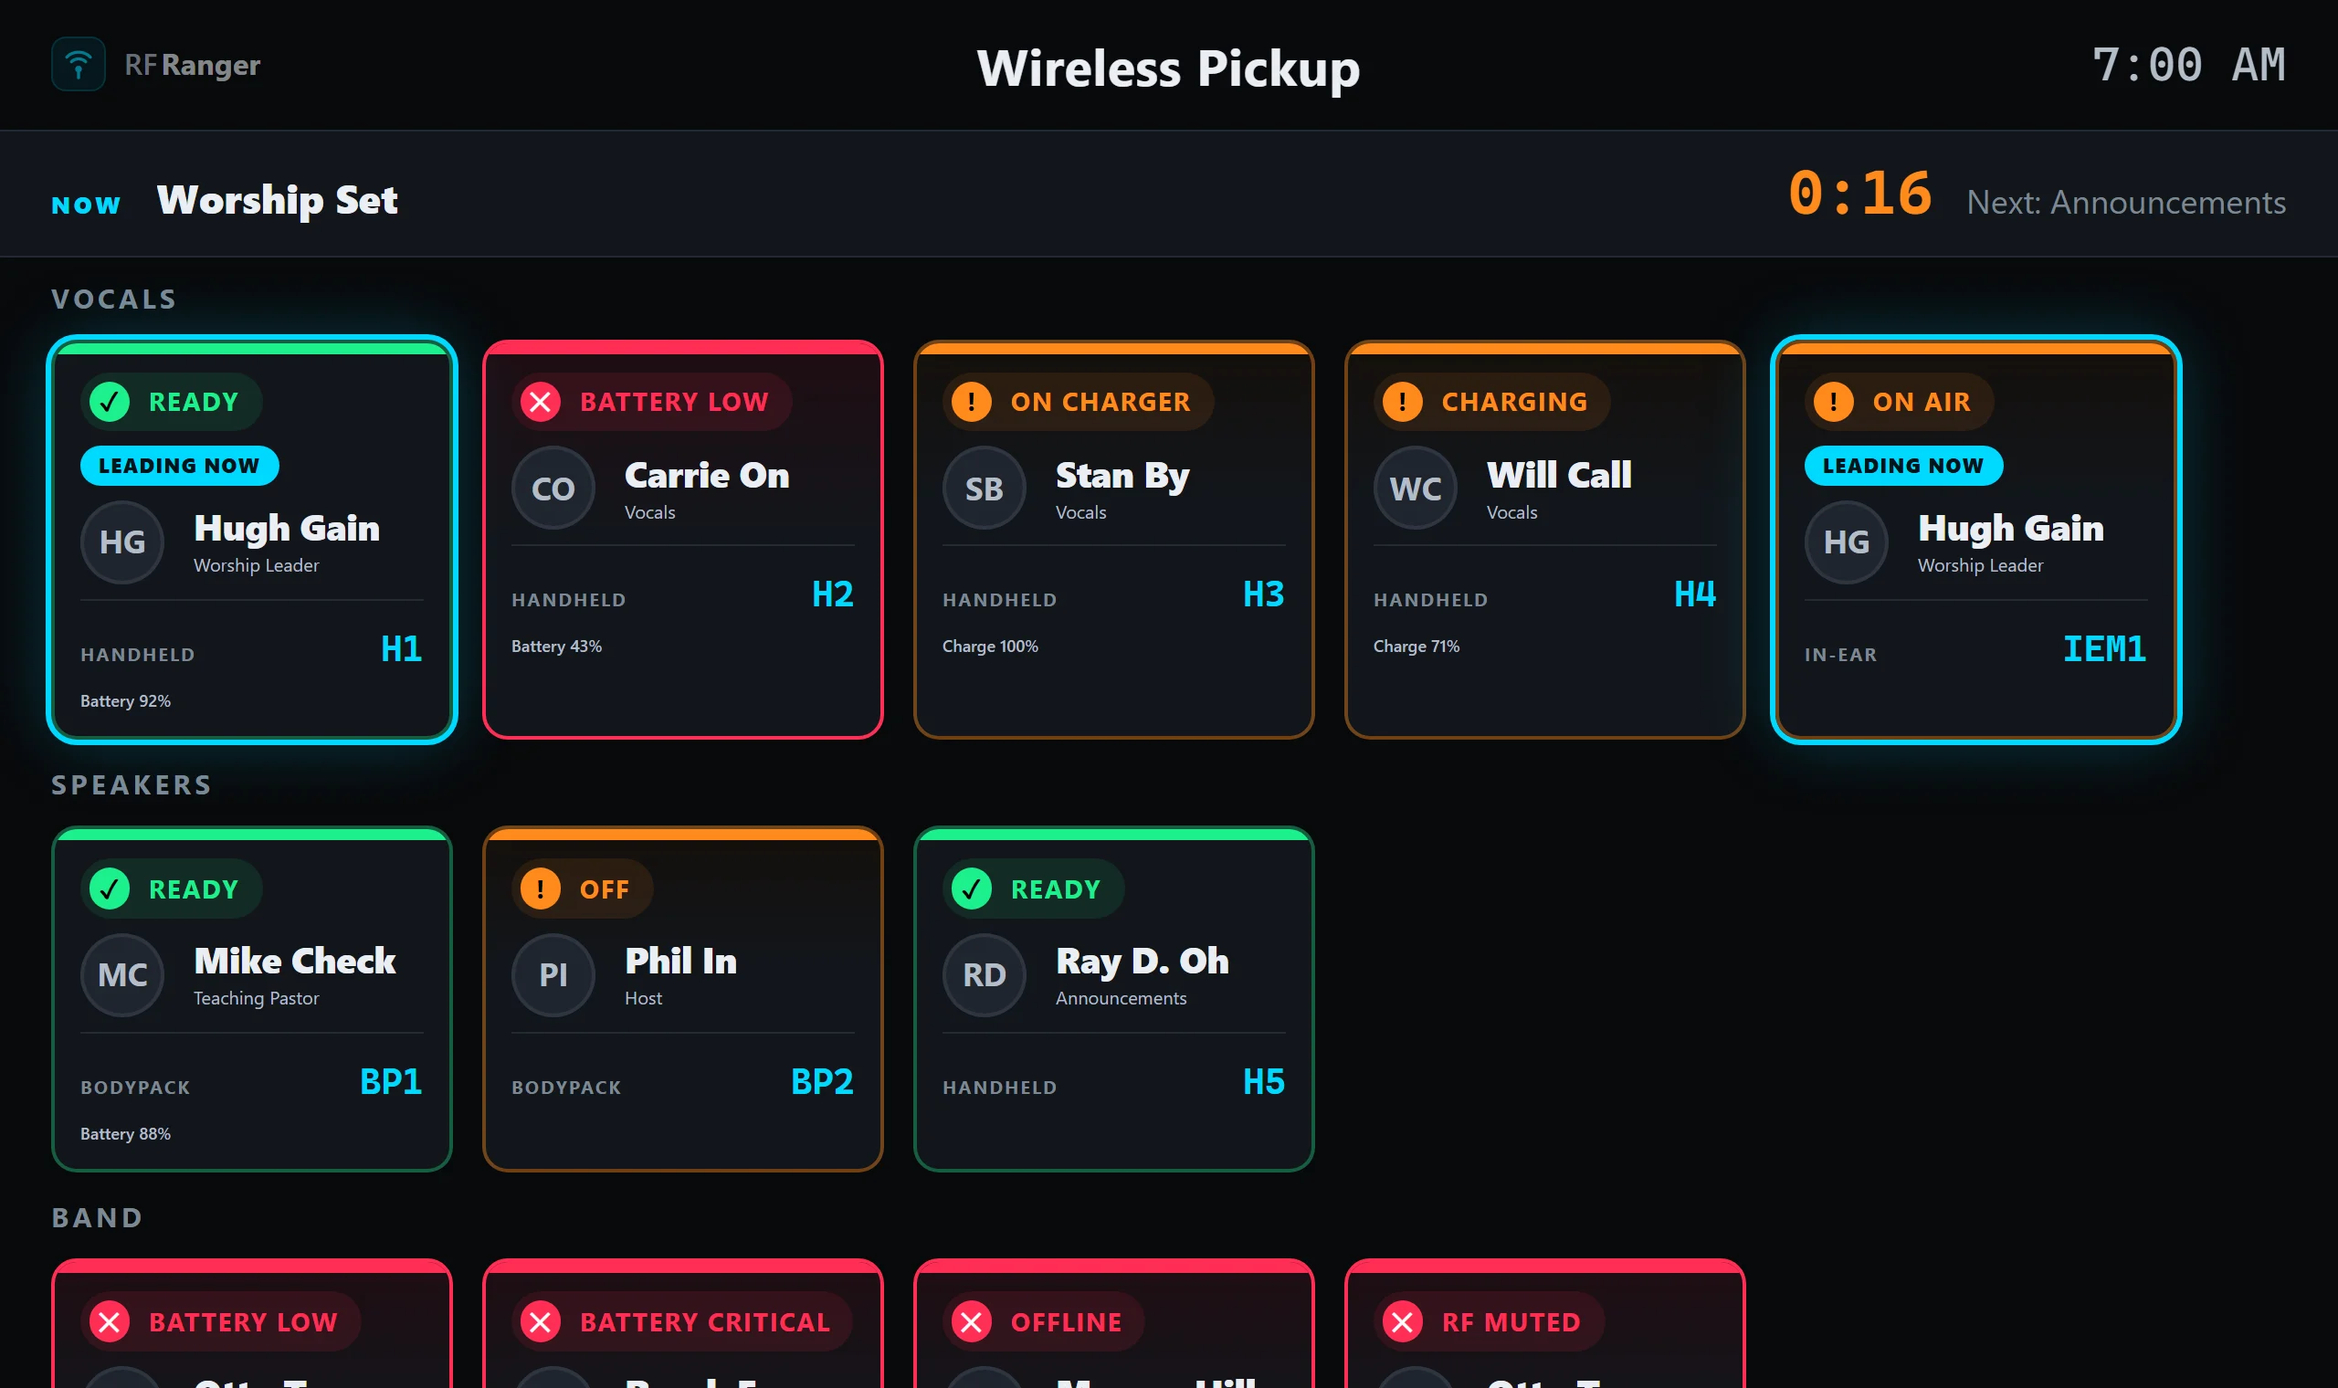
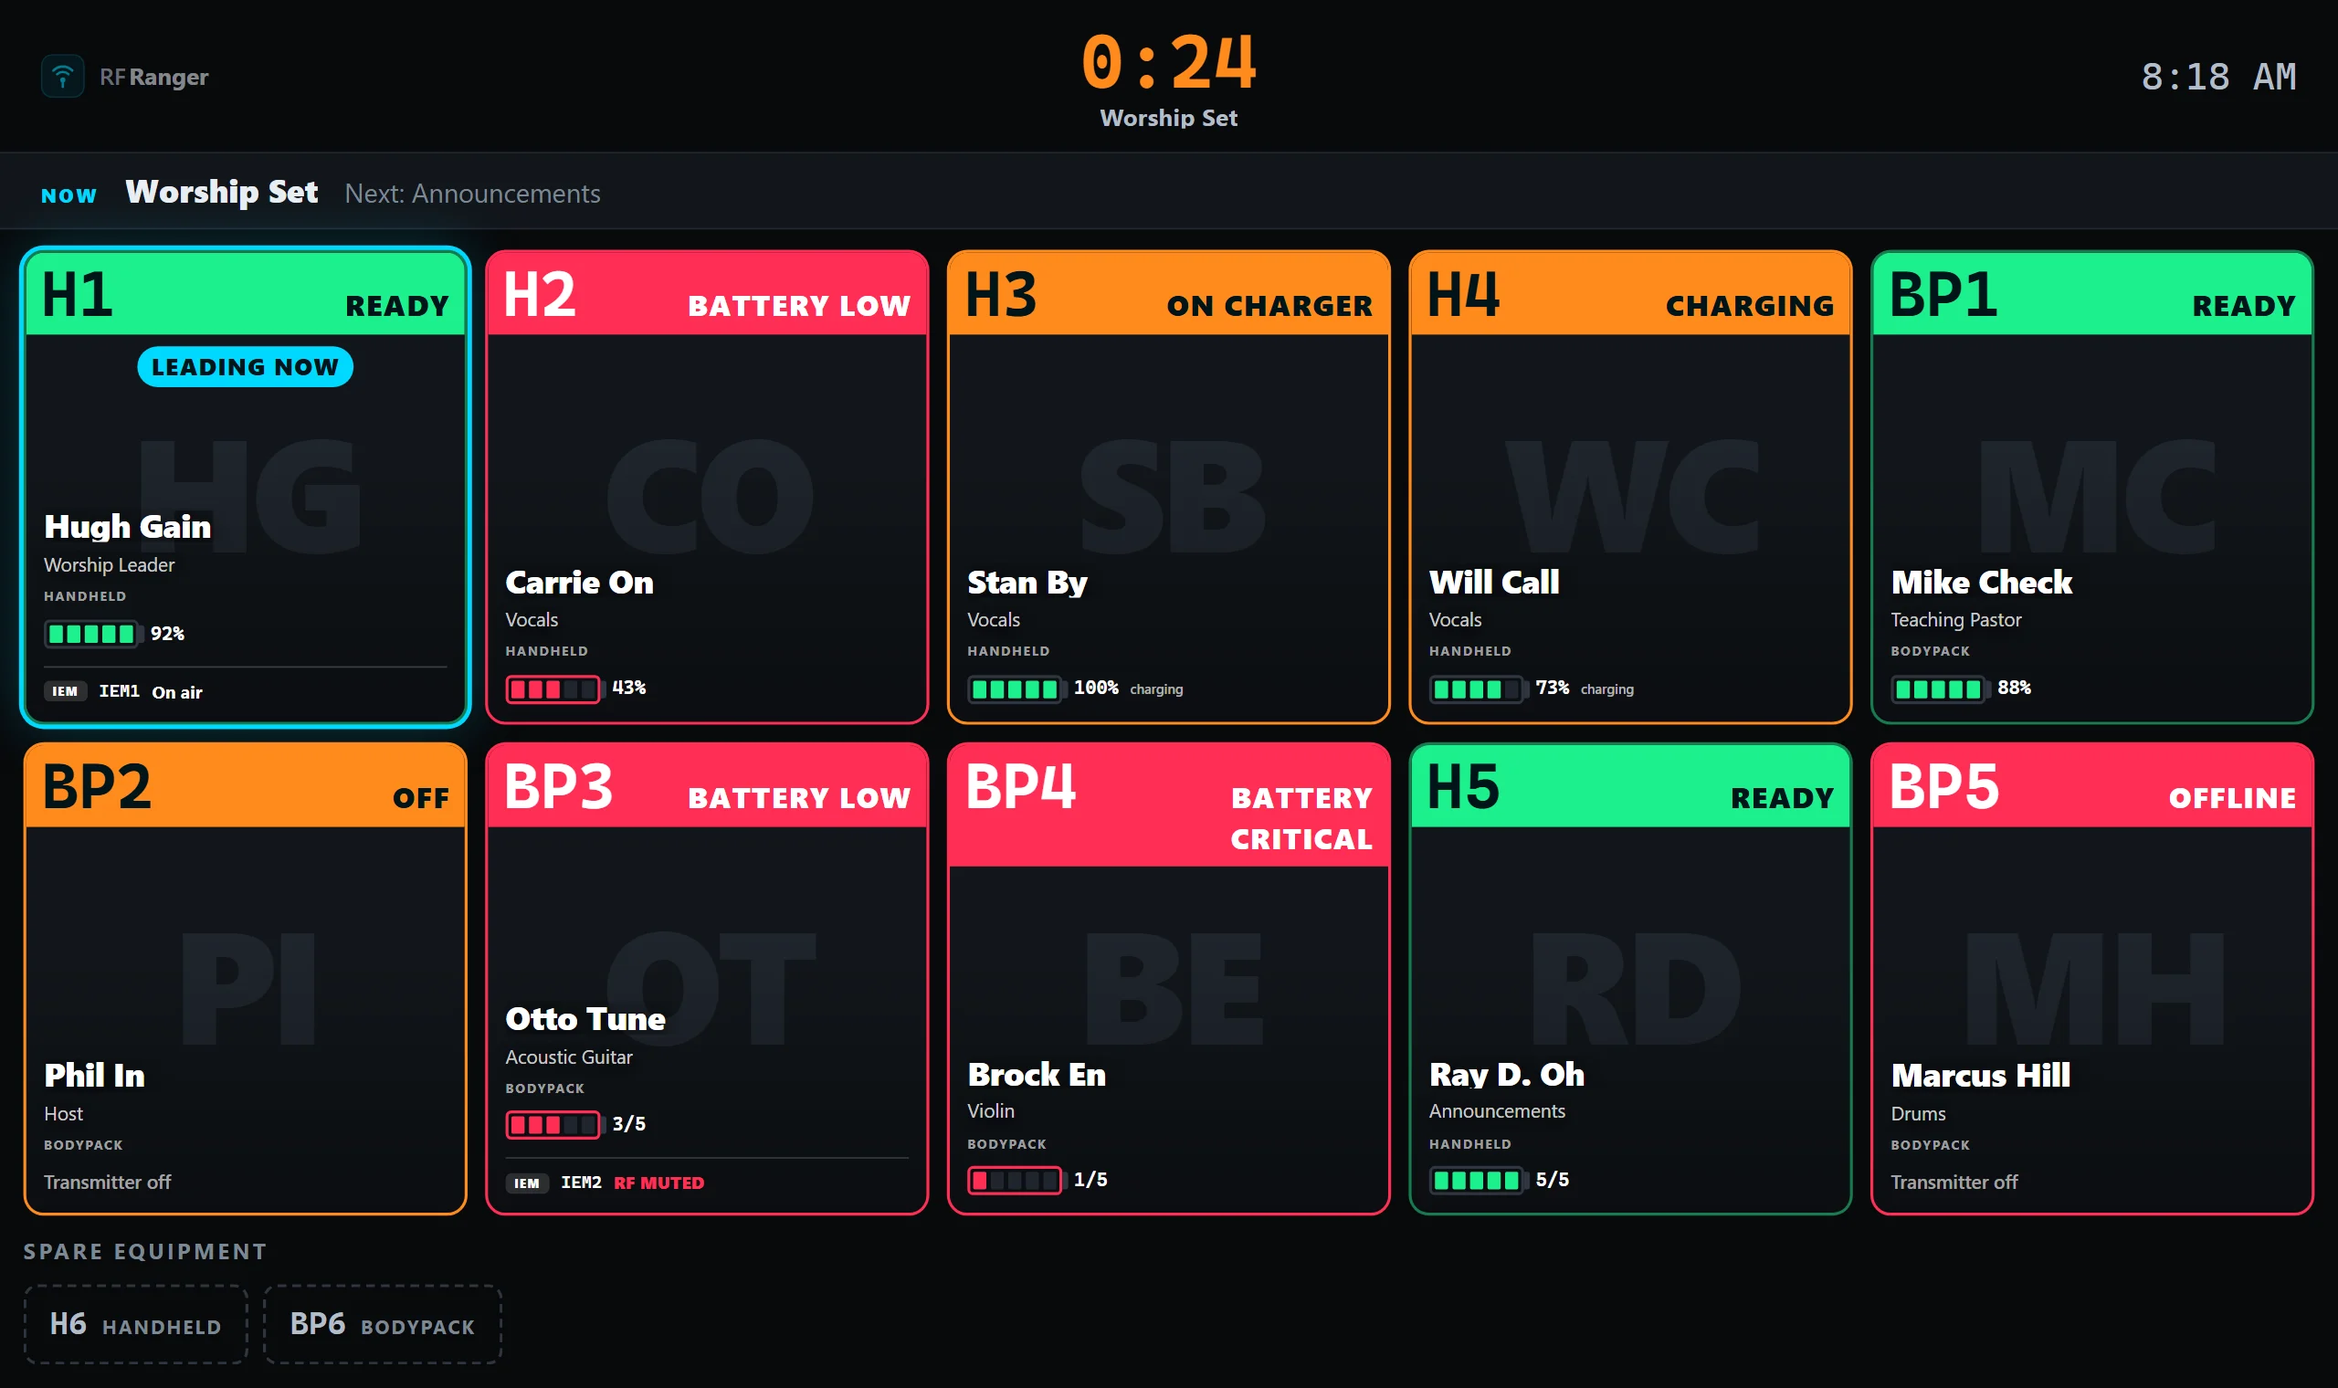
Features page, new pickup screenshot, sitemap and robots.txt
- /features lists the big features, each under its own heading, for visitors
  and search engines; a Features tab in the nav on both pages
- New pickup screenshot: the Micboard-style columns with IEM packs and the
  Services Live countdown
- sitemap.xml, robots.txt and canonical links for indexing

diff --git a/public/features.html b/public/features.html
@@ -1,0 +1,182 @@
+<!doctype html>
+<html lang="en">
+<head>
+  <meta charset="utf-8">
+  <meta name="viewport" content="width=device-width, initial-scale=1">
+  <title>Features: RF Ranger wireless mic monitoring</title>
+  <meta name="description" content="RF Ranger features: live battery, RF and audio monitoring for Shure and Sennheiser wireless, a Micboard-style pickup screen with photos and in-ear packs, Planning Center mic assignments and Services Live timers, show presets, networked chargers and auto-discovery. Free for Mac and Windows.">
+  <meta name="theme-color" content="#08090b">
+  <link rel="canonical" href="https://rfranger.app/features">
+  <link rel="icon" href="/icon.svg" type="image/svg+xml">
+  <meta property="og:title" content="RF Ranger features">
+  <meta property="og:description" content="Wireless mic monitoring, a pickup screen for performers, and Planning Center integration. Free for Mac and Windows.">
+  <meta property="og:image" content="https://rfranger.app/screenshots/pickup.webp">
+  <meta property="og:url" content="https://rfranger.app/features">
+  <link rel="stylesheet" href="/styles.css">
+</head>
+<body>
+  <header class="top">
+    <a class="brand" href="/" aria-label="RF Ranger home">
+      <img src="/icon.svg" alt="" width="30" height="30">
+      <span>RF<b>Ranger</b></span>
+    </a>
+    <nav aria-label="Sections">
+      <a href="/#download">Download</a>
+      <a href="/features" aria-current="page">Features</a>
+      <a href="/#about">About</a>
+      <a href="/#feedback">Feedback</a>
+    </nav>
+  </header>
+
+  <main class="fpage">
+    <section class="fpage__intro">
+      <h1>Features</h1>
+      <p class="lede">
+        Everything RF Ranger does for the RF desk, the A1 and the performers, from live battery and RF readings to a
+        pickup screen that knows who is on which mic tonight.
+      </p>
+      <nav class="fpage__toc" aria-label="On this page">
+        <a href="#monitoring">Monitoring</a>
+        <a href="#pickup">Pickup screen</a>
+        <a href="#planning-center">Planning Center</a>
+        <a href="#presets">Show presets</a>
+        <a href="#iem">In-ear monitors</a>
+        <a href="#chargers">Chargers</a>
+        <a href="#network">Setup &amp; network</a>
+        <a href="#hardware">Supported hardware</a>
+      </nav>
+    </section>
+
+    <section class="fsec" id="monitoring">
+      <div class="fsec__text">
+        <h2>Live wireless mic monitoring</h2>
+        <p>Every wireless channel on one screen, updated several times a second, in any browser on the network.</p>
+        <ul>
+          <li><b>Battery</b> as bars and percent, with runtime left, from the transmitter itself.</li>
+          <li><b>RF signal</b> per antenna, with A/B diversity lights showing which antenna is in use.</li>
+          <li><b>Audio levels</b> and a <b>five-second waveform</b> with the RF underneath: tell a wireless dropout from a bumped mic.</li>
+          <li><b>Readiness at a glance:</b> green is ready, orange is off or on the charger, red is a low battery, a fault or an offline receiver.</li>
+          <li><b>Alerts</b> for low and critical batteries, weak RF, interference, encryption faults, the wrong transmitter on a channel, and muted receiver outputs.</li>
+          <li>Transmitter model and ID, frequency, link quality and mute state for every channel.</li>
+        </ul>
+      </div>
+      <figure class="shot fsec__shot"><img src="/screenshots/waveform.webp" width="2560" height="1520" loading="lazy"
+        alt="A channel's detail panel with battery, RF and audio readings and a five-second audio waveform with the RF strip underneath"></figure>
+    </section>
+
+    <section class="fsec" id="pickup">
+      <div class="fsec__text">
+        <h2>A pickup screen for performers</h2>
+        <p>Put it on a TV by the mic table. Each person gets a column they can read from across the room.</p>
+        <ul>
+          <li><b>Their name and photo</b>, from Planning Center or the receiver's channel names.</li>
+          <li><b>Which mic is theirs</b> (RF-1, BP-3, …) and whether it's ready, charging or switched off.</li>
+          <li><b>Battery</b> as bars and percent, or the charge while it sits in its charger.</li>
+          <li><b>Their in-ear pack</b> alongside their mic: on air, RF muted, and its charge when docked.</li>
+          <li><b>Services Live countdown</b> at the top of the screen, with the segment that's on now and what's next.</li>
+          <li><b>"Leading now"</b> lights up whoever the live item's leader is.</li>
+          <li>Fits any screen by itself, with no scrolling on a TV; phones get two columns.</li>
+        </ul>
+      </div>
+      <figure class="shot fsec__shot"><img src="/screenshots/pickup.webp" width="2560" height="1520" loading="lazy"
+        alt="Pickup screen: a column per performer with their mic label, readiness, name, role, battery and paired in-ear pack, and a segment countdown at the top"></figure>
+    </section>
+
+    <section class="fsec fsec--text" id="planning-center">
+      <div class="fsec__text">
+        <h2>Planning Center integration</h2>
+        <p>RF Ranger reads your Planning Center Services schedule (read-only) and puts the right people on the right mics.</p>
+        <ul>
+          <li><b>Mic assignments from the schedule:</b> give each position its mics once ("Worship Leader" → RF-1 to RF-3, "BGV 1" → RF-5), then sync.</li>
+          <li><b>Preferences:</b> a person's preferred mic and preferred in-ear pack.</li>
+          <li><b>Automatic sync</b> a set time before rehearsal, or at a fixed time each week; several services, each with its own rules.</li>
+          <li><b>Change any mic by hand</b> after a sync; unconfirmed people and anyone left without a mic are flagged.</li>
+          <li><b>Starred mics</b> make an artist preset of just the synced mics, so the pickup screen shows only who's on tonight.</li>
+          <li><b>Services Live:</b> the live segment's countdown, the next item, and the item's leader, on the engineer and pickup screens.</li>
+        </ul>
+      </div>
+    </section>
+
+    <section class="fsec" id="presets">
+      <div class="fsec__text">
+        <h2>Show presets</h2>
+        <p>On a shared network RF Ranger can see every receiver in the building. Presets keep each screen to the mics that matter.</p>
+        <ul>
+          <li>Pick the channels for a room or a segment, in the order you want them.</li>
+          <li><b>Nicknames</b> per show: RF-4 is "Sam" tonight.</li>
+          <li>Choose which preset the pickup screen shows, from the engineer view; or bookmark a TV to one preset.</li>
+          <li>Edit presets from any engineer screen on the network, such as an RF tech's iPad.</li>
+        </ul>
+      </div>
+      <figure class="shot fsec__shot"><img src="/screenshots/engineer.webp" width="2560" height="1520" loading="lazy"
+        alt="Engineer view: a grid of channels with readiness, battery, RF and audio meters"></figure>
+    </section>
+
+    <section class="fsec fsec--text" id="iem">
+      <div class="fsec__text">
+        <h2>In-ear monitors</h2>
+        <ul>
+          <li><b>Shure PSM 1000</b> transmitters: channel names, frequency, RF output power, RF mute and stereo/mono mode.</li>
+          <li>Each person's in-ear pack shows next to their mic, paired by name or by their Planning Center preference.</li>
+          <li>Pack batteries through a networked charger bay. (IEM packs only receive, so they can't report their battery over the air.)</li>
+        </ul>
+      </div>
+    </section>
+
+    <section class="fsec fsec--text" id="chargers">
+      <div class="fsec__text">
+        <h2>Networked chargers</h2>
+        <ul>
+          <li><b>Shure SBC220 and SBC240</b>: every bay's charge, battery health and time to full.</li>
+          <li>Give a mic its charger bay and a docked transmitter reads "on charger" or "charging" instead of "off".</li>
+          <li>Storage mode is flagged, so batteries left at storage charge don't go out on stage.</li>
+        </ul>
+      </div>
+    </section>
+
+    <section class="fsec fsec--text" id="network">
+      <div class="fsec__text">
+        <h2>Setup and network</h2>
+        <ul>
+          <li><b>Finds receivers by itself</b> on the network and names channels from their channel names, the way Micboard does.</li>
+          <li><b>Remembers devices</b>, so a receiver that's switched off still has its channels on screen, and reconnects when it's back.</li>
+          <li><b>Add a device by IP address</b> for networks where discovery can't reach it.</li>
+          <li><b>Read-only:</b> RF Ranger never changes a setting on your hardware.</li>
+          <li><b>Device Inspector</b> to capture a device's raw data, and anonymized device reports to help add new hardware.</li>
+          <li>Runs on the Mac or Windows laptop already at your RF desk; any phone, tablet or TV on the network opens it in a browser.</li>
+          <li>Free and open source (MIT), with update notices when a new version is out.</li>
+        </ul>
+      </div>
+    </section>
+
+    <section class="fsec fsec--text" id="hardware">
+      <div class="fsec__text">
+        <h2>Supported hardware</h2>
+        <ul>
+          <li><b>Shure Axient Digital</b> receivers</li>
+          <li><b>Shure ULX-D</b> receivers</li>
+          <li><b>Shure SLX-D</b> receivers</li>
+          <li><b>Shure SBC220 and SBC240</b> networked chargers</li>
+          <li><b>Shure PSM 1000</b> in-ear transmitters</li>
+          <li><b>Sennheiser EW-DX</b> (EM 2, EM 4) and <b>Digital 6000</b> (EM 6000) receivers <span class="muted">(new, not yet confirmed on real hardware)</span></li>
+        </ul>
+        <p class="muted">Using something else? <a href="/#feedback">Tell us</a>, or send a device report from the Inspector.</p>
+      </div>
+    </section>
+
+    <section class="fpage__cta">
+      <h2>Try it on your next service</h2>
+      <p class="lede">Free for Mac and Windows.</p>
+      <div class="downloads"><a class="btn btn--primary" href="/#download"><span><b>Download RF Ranger</b></span></a></div>
+    </section>
+  </main>
+
+  <footer class="foot">
+    <span>RF Ranger · free and open source (MIT)</span>
+    <a class="foot__gh" href="https://github.com/jdnelson19/RF-Ranger" target="_blank" rel="noopener">
+      <svg aria-hidden="true" viewBox="0 0 16 16" width="16" height="16"><path fill="currentColor" d="M8 0a8 8 0 0 0-2.53 15.59c.4.07.55-.17.55-.38v-1.33c-2.23.48-2.7-1.07-2.7-1.07-.36-.92-.89-1.17-.89-1.17-.73-.5.06-.49.06-.49.8.06 1.23.83 1.23.83.72 1.22 1.88.87 2.34.66.07-.52.28-.87.5-1.07-1.78-.2-3.64-.89-3.64-3.95 0-.87.31-1.59.82-2.15-.08-.2-.36-1.02.08-2.12 0 0 .67-.21 2.2.82a7.6 7.6 0 0 1 4 0c1.53-1.04 2.2-.82 2.2-.82.44 1.1.16 1.92.08 2.12.51.56.82 1.28.82 2.15 0 3.07-1.87 3.75-3.65 3.95.29.25.54.73.54 1.48v2.2c0 .21.15.46.55.38A8 8 0 0 0 8 0Z"/></svg>
+      GitHub
+    </a>
+  </footer>
+</body>
+</html>

diff --git a/public/index.html b/public/index.html
@@ -6,6 +6,7 @@
   <title>RF Ranger: wireless mic monitoring</title>
   <meta name="description" content="Free wireless mic monitoring for live production teams. Battery, RF and audio for every channel at a glance, plus a pickup screen for performers. For Mac and Windows.">
   <meta name="theme-color" content="#08090b">
+  <link rel="canonical" href="https://rfranger.app/">
   <link rel="icon" href="/icon.svg" type="image/svg+xml">
   <meta property="og:title" content="RF Ranger">
   <meta property="og:description" content="Your wireless. Under control. Free wireless mic monitoring for Mac and Windows.">
@@ -22,6 +23,7 @@
     </a>
     <nav aria-label="Sections">
       <a href="#download">Download</a>
+      <a href="/features">Features</a>
       <a href="#about">About</a>
       <a href="#feedback">Feedback</a>
     </nav>
@@ -76,11 +78,13 @@
         </article>
         <article class="feature">
           <figure class="shot"><img src="/screenshots/pickup.webp" width="2560" height="1520" loading="lazy"
-            alt="Pickup view: large cards with each performer's name, their mic, and whether it's ready"></figure>
+            alt="Pickup view: a column per performer with their mic, readiness, battery and in-ear pack, and the live segment's countdown at the top"></figure>
           <h3>A pickup screen for performers</h3>
-          <p>Put it on a TV by the mic table. Performers find their name, see which mic or pack is theirs, and whether it's ready.</p>
+          <p>Put it on a TV by the mic table. Each performer gets a column with their name and photo, their mic and in-ear pack, and whether it's ready, with the live segment's countdown on top.</p>
         </article>
       </div>
+
+      <p class="more"><a href="/features">See every feature →</a></p>
 
       <details class="hardware">
         <summary>Supported hardware</summary>

diff --git a/public/styles.css b/public/styles.css
@@ -137,3 +137,22 @@ h2 { margin: 0 0 12px; font-size: clamp(28px, 4vw, 38px); letter-spacing: -0.02e
 .foot__gh:hover { color: var(--text); }
 .form__file input[type=file] { padding: 8px; font-size: 14px; }
 .form__file small { font-weight: 400; font-size: 13px; color: var(--muted); line-height: 1.5; }
+
+/* Features page */
+.top nav a[aria-current='page'] { color: var(--text); }
+.more { margin: 24px 0 0; font-weight: 600; }
+.fpage > section { width: var(--page); margin: 0 auto; }
+.fpage__intro { padding: 64px 0 8px; }
+.fpage__intro .lede { margin: 18px 0 0; max-width: 720px; }
+.fpage__toc { display: flex; flex-wrap: wrap; gap: 8px; margin-top: 26px; }
+.fpage__toc a { padding: 6px 12px; border: 1px solid var(--line-2); border-radius: 999px; color: var(--text-2); text-decoration: none; font-size: 14px; }
+.fpage__toc a:hover { color: var(--text); border-color: var(--muted); }
+.fsec { display: grid; grid-template-columns: 1fr 1.15fr; gap: 40px; align-items: center; padding: 64px 0 0; scroll-margin-top: 64px; }
+.fsec--text { grid-template-columns: 1fr; }
+.fsec--text .fsec__text { max-width: 780px; }
+.fsec__text p { margin: 0 0 12px; color: var(--text-2); font-size: 17px; }
+.fsec__text ul { margin: 0; padding-left: 20px; display: grid; gap: 8px; color: var(--text-2); }
+.fsec__text li b { color: var(--text); }
+.fpage__cta { padding: 80px 0 0; text-align: center; }
+.fpage__cta .lede { margin: 8px auto 0; }
+@media (max-width: 860px) { .fsec { grid-template-columns: 1fr; gap: 24px; } }
